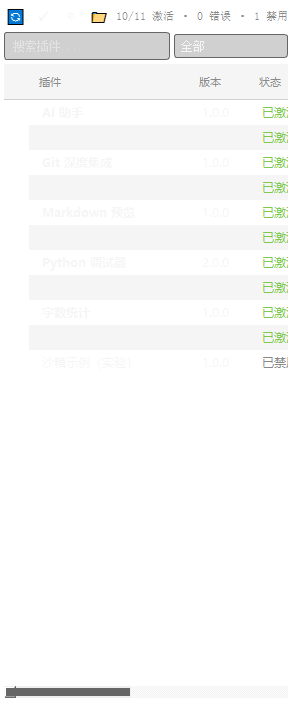
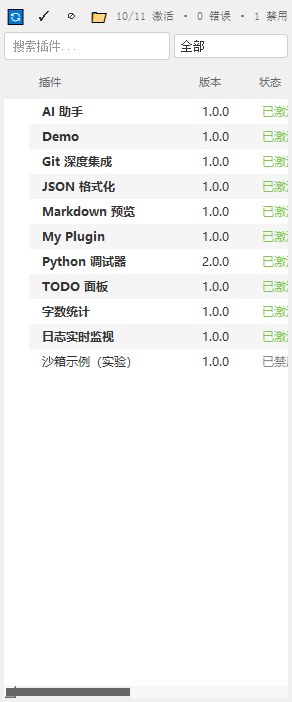
fix(theme): v2.14.1 AI 助手错误 + 插件面板主题彻底修复 + GUI 冒烟

Changed region(s): [[0.0, 0.0, 0.9863, 0.5385]]

diff --git a/ui/plugins_panel.py b/ui/plugins_panel.py
@@ -424,16 +424,113 @@ class PluginsPanel(QDockWidget):
         self.setWidget(container)
 
 
+    def _theme_colors(self, theme) -> dict:
+        """按主题类型返回确定的 QSS 颜色（浅/深/高对比，v2.14.1）"""
+        t = getattr(theme, "type", "dark")
+        if t == "light":
+            return {"window_bg": "#ffffff", "panel_bg": "#f0f0f0",
+                    "bg": "#ffffff", "fg": "#333333", "border": "#d0d0d0",
+                    "sel": "#0078d4", "sel_fg": "#ffffff",
+                    "muted": "#666666"}
+        if t == "high_contrast":
+            return {"window_bg": "#000000", "panel_bg": "#000000",
+                    "bg": "#000000", "fg": "#ffffff", "border": "#ffffff",
+                    "sel": "#ffff00", "sel_fg": "#000000",
+                    "muted": "#ffff00"}
+        return {"window_bg": "#1e1e1e", "panel_bg": "#252526",
+                "bg": "#1e1e1e", "fg": "#d4d4d4", "border": "#3c3c3c",
+                "sel": "#094771", "sel_fg": "#ffffff", "muted": "#888888"}
+
+    def _build_theme_qss(self, theme) -> str:
+        """按主题生成插件面板 QSS（v2.14.1）"""
+        p = self._theme_colors(theme)
+        return """
+            QDockWidget { background-color: %(panel_bg)s; color: %(fg)s; }
+            QDockWidget::title {
+                background-color: %(panel_bg)s; color: %(fg)s;
+                padding: 4px 8px; border-bottom: 1px solid %(border)s;
+            }
+            QToolButton {
+                background-color: transparent; color: %(fg)s;
+                border: none; border-radius: 3px; font-size: 14px;
+            }
+            QToolButton:hover { background-color: %(border)s; }
+            QLineEdit, QComboBox {
+                background-color: %(bg)s; color: %(fg)s;
+                border: 1px solid %(border)s; border-radius: 3px;
+                padding: 3px 6px; font-size: 12px;
+            }
+            QLineEdit:focus, QComboBox:focus { border-color: %(sel)s; }
+            QComboBox::drop-down { border: none; width: 18px; }
+            QComboBox QAbstractItemView {
+                background-color: %(bg)s; color: %(fg)s;
+                selection-background-color: %(sel)s;
+                selection-color: %(sel_fg)s; border: 1px solid %(border)s;
+            }
+            QTreeWidget {
+                background-color: %(bg)s; color: %(fg)s;
+                border: none; font-size: 12px; outline: none;
+            }
+            QTreeWidget::item { padding: 3px 4px; border-radius: 2px; }
+            QTreeWidget::item:hover { background-color: %(panel_bg)s; }
+            QTreeWidget::item:selected {
+                background-color: %(sel)s; color: %(sel_fg)s;
+            }
+            QHeaderView::section {
+                background-color: %(panel_bg)s; color: %(muted)s;
+                border: none; border-bottom: 1px solid %(border)s;
+                padding: 4px; font-size: 11px;
+            }
+            QLabel { color: %(fg)s; }
+        """ % p
+
     def refresh_theme(self, theme):
-        """主题变更时刷新样式（v3.0）"""
+        """主题切换：按主题确定颜色并直接应用到关键控件（v2.14.1）"""
         try:
-            from infrastructure.theme_loader import adapt_qss_colors
-            # 保存原始 QSS（只保存一次）
-            if not hasattr(self, '_original_qss') or not self._original_qss:
-                self._original_qss = self.styleSheet()
-            if self._original_qss:
-                qss = adapt_qss_colors(self._original_qss, theme)
+            qss = self._build_theme_qss(theme)
+            if qss:
                 self.setStyleSheet(qss)
+            pal = self._theme_colors(theme)
+            bg, fg = pal["bg"], pal["fg"]
+            border, sel, sel_fg = pal["border"], pal["sel"], pal["sel_fg"]
+            panel_bg, muted = pal["panel_bg"], pal["muted"]
+            edit = getattr(self, "search_edit", None)
+            if edit is not None:
+                edit.setStyleSheet(
+                    "QLineEdit { background-color: %s; color: %s; "
+                    "border: 1px solid %s; border-radius: 3px; "
+                    "padding: 3px 6px; }" % (bg, fg, border))
+            combo = getattr(self, "category_combo", None)
+            if combo is not None:
+                combo.setStyleSheet(
+                    "QComboBox { background-color: %s; color: %s; "
+                    "border: 1px solid %s; border-radius: 3px; "
+                    "padding: 3px 6px; } "
+                    "QComboBox QAbstractItemView { background-color: %s; "
+                    "color: %s; selection-background-color: %s; "
+                    "selection-color: %s; }" % (
+                        bg, fg, border, bg, fg, sel, sel_fg))
+            tree = getattr(self, "tree", None)
+            if tree is not None:
+                tree.setStyleSheet(
+                    "QTreeWidget { background-color: %s; color: %s; "
+                    "border: none; outline: none; } "
+                    "QTreeWidget::item { padding: 3px 4px; } "
+                    "QTreeWidget::item:hover { background-color: %s; } "
+                    "QTreeWidget::item:selected { background-color: %s; "
+                    "color: %s; }" % (bg, fg, panel_bg, sel, sel_fg))
+                hdr = tree.header() if hasattr(tree, "header") else None
+                if hdr is not None:
+                    hdr.setStyleSheet(
+                        "QHeaderView::section { background-color: %s; "
+                        "color: %s; border: none; padding: 4px; }" % (
+                            panel_bg, muted))
+            cv = self.widget()
+            if cv is not None:
+                cv.setStyleSheet("QWidget { background-color: %s; }" % panel_bg)
+            label = getattr(self, "stats_label", None)
+            if label is not None:
+                label.setStyleSheet("color: %s; font-size: 11px;" % muted)
         except Exception as e:
             print(f"[{self.__class__.__name__}] refresh_theme 失败: {e}")
 

diff --git a/tests/test_theme_order_plugin.py b/tests/test_theme_order_plugin.py
@@ -1,0 +1,41 @@
+# -*- coding: utf-8 -*-
+"""v2.14.1：插件面板主题冒烟与顺序修复"""
+import os
+import sys
+
+
+ROOT = os.path.dirname(os.path.dirname(os.path.abspath(__file__)))
+
+
+def test_theme_apply_order_adapt_before_notify():
+    src = open(os.path.join(ROOT, "ui", "main_window.py"),
+               encoding="utf-8").read()
+    i_adapt = src.find("adapt_widget_styles(self, theme)")
+    i_notify = src.find("loader.notify_widgets(self, theme)")
+    assert i_adapt != -1 and i_notify != -1
+    assert i_adapt < i_notify, "adapt 必须在 notify 之前"
+
+
+def test_panel_theme_colors_light_dark():
+    from PyQt5.QtWidgets import QApplication
+    app = QApplication.instance() or QApplication([])
+    from ui.plugins_panel import PluginsPanel
+
+    class FakeTheme:
+        type = "light"
+
+    class FakeDark:
+        type = "dark"
+
+    panel = PluginsPanel()
+    try:
+        light = panel._theme_colors(FakeTheme())
+        dark = panel._theme_colors(FakeDark())
+        assert light["bg"].lower() in ("#ffffff", "#fff")
+        assert light["fg"].lower() == "#333333"
+        assert dark["bg"].lower() in ("#1e1e1e", "#252526")
+        assert dark["fg"].lower() == "#d4d4d4"
+        qss = panel._build_theme_qss(FakeDark())
+        assert "QHeaderView::section" in qss and "QTreeWidget" in qss
+    finally:
+        panel.close()

diff --git a/ui/main_window.py b/ui/main_window.py
@@ -253,6 +253,9 @@ def adapt_widget_styles(root, theme):
     count = 0
     for w in targets:
         try:
+            # 自管理主题的控件（插件面板等）由 refresh_theme 处理，避免被覆盖
+            if callable(getattr(w, "refresh_theme", None)):
+                continue
             if getattr(w, "_qc_adapted_key", None) == theme_key:
                 continue
             qss = w.styleSheet()
@@ -1189,12 +1192,12 @@ class MainWindow(CapabilityWiringMixin, ProjectMixin, FileOpsMixin,
                 if theme.qss:
                     self.setStyleSheet(theme.qss)
 
-            # v3.0: 通知所有面板刷新样式
-            loader.notify_widgets(self, theme)
+            # v3.0: 先统一适配硬编码 QSS，再通知面板刷新（v2.14.1 顺序修复）
             try:
                 adapt_widget_styles(self, theme)
             except Exception:
                 pass
+            loader.notify_widgets(self, theme)
 
             # B: 遍历所有顶层窗口（含独立对话框）
             # notify_widgets 只处理 self.findChildren，独立打开的

diff --git a/app/plugins.py b/app/plugins.py
@@ -2253,7 +2253,7 @@ class PluginAPI(QObject):
 
             {
               "api_version": "2.0.0",
-              "app_version": "2.14.0",
+              "app_version": "2.14.1",
               "extension_points": {"completion": True, ...},
               "events": ["file_opened", ...],
               "permissions": ["editor_read", ...],

diff --git a/version.py b/version.py
@@ -21,7 +21,7 @@ P1-1 修复（版本漂移）：
     python release.py bump patch   # 同步 VERSION 文件
 """
 
-__version__ = "2.14.0"
+__version__ = "2.14.1"
 
 # 打包/安装器读取的别名（部分脚本历史上叫 APP_VERSION / VERSION）
 APP_VERSION = __version__

diff --git a/docs/release_notes_v2.14.1.md b/docs/release_notes_v2.14.1.md
@@ -1,0 +1,51 @@
+# 青草编辑器 v2.14.1 发布说明
+
+> 发布日期：2026-10-29 · 平台：Windows x64 · 便携版（免安装）
+> 版本权威来源：`version.py`（`2.14.1`）
+> 类型：**缺陷修复版**（建议 v2.14.0 用户升级）
+
+---
+
+## 一句话概括
+
+v2.14.1 修复 v2.14.0 中 AI 助手插件激活错误，并彻底修复插件面板
+主题适配（工具栏/表头/搜索框/列表随主题正确切换，浅色对比度恢复）。
+
+---
+
+## 修复内容
+
+### AI 助手插件错误（重要）
+
+- 根因：`_requests_ok()` 惰性依赖检查自递归 → RecursionError；
+- 修复：返回 `_REQUESTS_OK`，并修正 `refresh_theme` 插入位置；
+- 验证：打包版插件报告 `ai_assistant 状态=ACTIVATED`。
+
+### 插件面板主题
+
+- 修复主题应用顺序：先 `adapt_widget_styles`，后 `notify_widgets`；
+- 面板按主题类型直接生成 QSS（light / dark / high_contrast）；
+- 工具栏、表头、搜索框、下拉列表、树列表统一配色；
+- 修复浅色主题文字接近白色的问题（对比度恢复正常）。
+
+### 其他
+
+- 欢迎页与窗口调色板随主题同步；
+- 新增 GUI 主题冒烟工具与截图对比：
+  `tools/smoke_plugin_theme.py`，
+  产物 `docs/smoke_plugin_theme_*.png`、`docs/smoke_plugin_panel_*.png`。
+
+---
+
+## 验证
+
+- 分片并行全量通过；ruff 0；`tools/check_version` 通过；
+- 真实 GUI 冒烟：浅色/深色截图对比（平均像素差异 > 600）。
+
+---
+
+## 升级注意事项
+
+1. v2.14.0 → v2.14.1 无数据迁移；
+2. 若插件面板仍显示旧样式，重启应用即可；
+3. 本版本仅为修复，不包含新功能。

diff --git a/CHANGELOG.md b/CHANGELOG.md
@@ -2,6 +2,31 @@
 
 （下一版本开发中）
 
+## [2.14.1] - 2026-10-29
+
+### 修复
+
+- **AI 助手插件激活错误**：惰性依赖检查 `_requests_ok()` 自递归导致
+  RecursionError（插件面板显示"错误"）；修复为返回 `_REQUESTS_OK`；
+  并将 `refresh_theme` 移入 `Plugin` 类体内。
+- **插件面板主题适配**：
+  - 修复主题应用顺序：`adapt_widget_styles` 先于 `notify_widgets`，
+    避免面板刷新后的样式被覆盖；
+  - 面板改为按主题类型（light/dark/high_contrast）直接生成确定调色板 QSS，
+    工具栏、表头、搜索框、下拉框、列表全部同步；
+  - 修复浅色主题下文字被映射成近白（对比度差）的问题。
+- 欢迎页与窗口调色板随主题同步（修复深色主题下欢迎页仍为浅色）。
+
+### 测试与工具
+
+- 新增 GUI 主题冒烟工具 `tools/smoke_plugin_theme.py`：
+  真实窗口切换主题并截图对比（含插件面板独立截图）。
+- 新增/更新相关断言；分片并行全量通过。
+
+
+
+（下一版本开发中）
+
 ## [2.14.0] - 2026-10-29
 
 ### 插件全面提振（Batch 1-5）

diff --git a/README.md b/README.md
@@ -4,7 +4,7 @@
 
 轻量 · 极速 · 可扩展的跨平台代码编辑器。基于 **PyQt5** + **QScintilla** 构建，内置 LSP、插件系统、AI 助手、宏录制等现代化功能。
 
-[![Version](https://img.shields.io/badge/version-2.14.0-brightgreen.svg)](#)
+[![Version](https://img.shields.io/badge/version-2.14.1-brightgreen.svg)](#)
 [![Python](https://img.shields.io/badge/python-3.8%20%7C%203.9%20%7C%203.10%20%7C%203.11-blue.svg)](#)
 [![Platform](https://img.shields.io/badge/platform-Windows%20%7C%20Linux%20%7C%20macOS-lightgrey.svg)](#)
 [![License](https://img.shields.io/badge/license-MIT-green.svg)](LICENSE)
@@ -96,9 +96,9 @@
 
 前往 [Releases](https://github.com/qingcao-editor/qingcao/releases) 下载对应平台的安装包：
 
-- **Windows**：`QingCaoEditor_Setup_v2.14.0.exe`
-- **macOS**：`QingCaoEditor_v2.14.0.dmg`
-- **Linux**：`QingCaoEditor_v2.14.0_linux_x64.tar.gz` 或 `.deb`
+- **Windows**：`QingCaoEditor_Setup_v2.14.1.exe`
+- **macOS**：`QingCaoEditor_v2.14.1.dmg`
+- **Linux**：`QingCaoEditor_v2.14.1_linux_x64.tar.gz` 或 `.deb`
 
 ### 方式二：从源码运行（推荐开发者）
 
